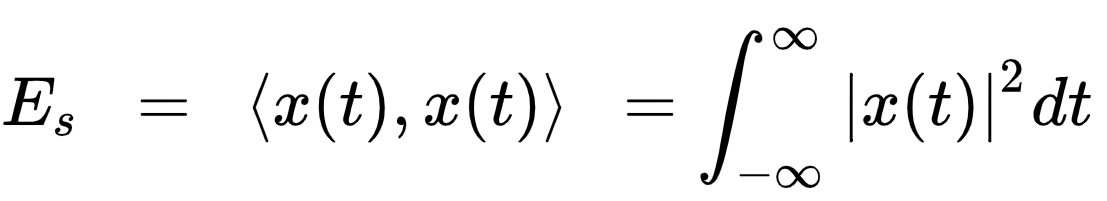
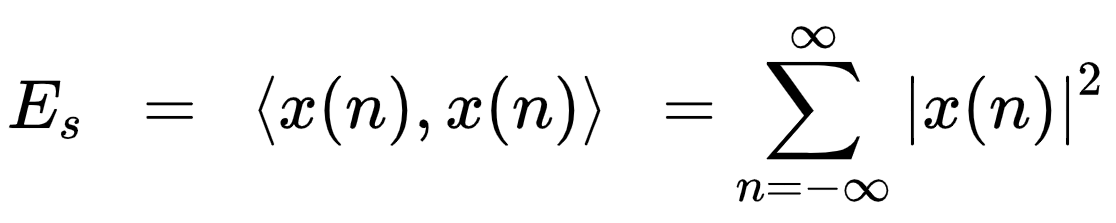
EJERCICIOS: Enunciado ejercicio 3 actualizado

diff --git a/ejercicios/ej03/README.md b/ejercicios/ej03/README.md
@@ -33,14 +33,15 @@ tiempo de símbolo $T_\text{symb}$ de 16 veces $T_s$.
           ![Coseno elevado](./images/raised_cosine.png)
 
       Todos los pulsos deben tener un pico de altura 1.
-    - La señal `x` es la señal a transmitir por el canal, se obtiene mediante la
-      convolución entre `d` y `p`, o de manera equivalente realizando el
+    - La señal `x` es la señal a transmitir por el canal, se obtiene mediante
+      la convolución entre `d` y `p`, o de manera equivalente realizando el
       filtrado de `d` mediante el filtro FIR de coeficientes `p`.
       En cualquier caso es importante descartar los primeros $\frac{L_p-1}{2}$
       valores, para que las señales `d` y `x` queden "sincronizadas".
     - El filtro `h` representa al canal y en este caso será un canal ideal, es
       decir, tendrá una única delta en 0.
-    - La señal `n` representa a ruido blanco gaussiano aditivo (AWGN) del canal.
+    - La señal `n` representa a ruido blanco gaussiano aditivo (AWGN) del
+      canal.
       Se lo caracterizará por su varianza: $\sigma^2 = N_0$
       (Modulación en banda base).
 
@@ -48,14 +49,28 @@ tiempo de símbolo $T_\text{symb}$ de 16 veces $T_s$.
     Realice el gráfico para cada pulso del punto anterior.
     Verificar que las deltas coinciden con los picos de los pulsos, inclusive
     para el coseno elevado.
+    Para este punto utilizar pocos datos para la secuencia binaria,
+    no más de 20, para que se puedan observar bien los datalles de la señal
+    generada.
 
 3. Graficar la densidad espectral de las señales `x` y `c` del punto anterior
     en escala semilogaritmica.
-    A diferencia del punto 1, dónde los pulsos tenían un pico de altura 1,
-    para este caso se deben normalizar los pulsos para que tengan energía igual a 1.
+    A diferencia del punto 1, dónde los pulsos tenían un pico de altura 1, para
+    este caso se deben normalizar los pulsos para que tengan energía igual a 1.
     Para ello dividir al pulso por su energía utilizando la siguiente ecuación:
-    ![Coseno elevado](./images/raised_cosine.png)
-    Notar que se utiliza la versión de tiempo continuo de la energía.
+    ![Coseno elevado](./images/energy.png)
+
+    Aclaración: Se debe notar que la señal que se transmite es una señal de
+    tiempo continuo y por lo tanto, el cálculo del espectro deberíamos hacerlo
+    en ese dominio y lo mismo con el cálculo de la energía.
+    Además se debería considerar el tipo de interpolación del DAC.
+    En este ejercicio estamos haciendo una aproximación del espectro y de la
+    energía del pulso, a partir de la versión muestreada.
+
+    Para el calculo de espectro utilizar de 1000 a 10000 datos para la
+    secuencia binaria, para que que la aproximación tenga mejor
+    resolución.
+
 
 4. Suba el script a la carpeta de entrega.
 
@@ -64,7 +79,8 @@ tiempo de símbolo $T_\text{symb}$ de 16 veces $T_s$.
 
 ### Entrega
 
-El script de simulación se debe agregar al repositorio, en la carpeta de entrega correspondiente.
+El script de simulación se debe agregar al repositorio, en la carpeta de
+entrega correspondiente.
 
 Asimismo, en la misma carpeta, se debe agregar un archivo `README.md` que
 contenga las capturas de la simulación y una breve explicación de lo que se
